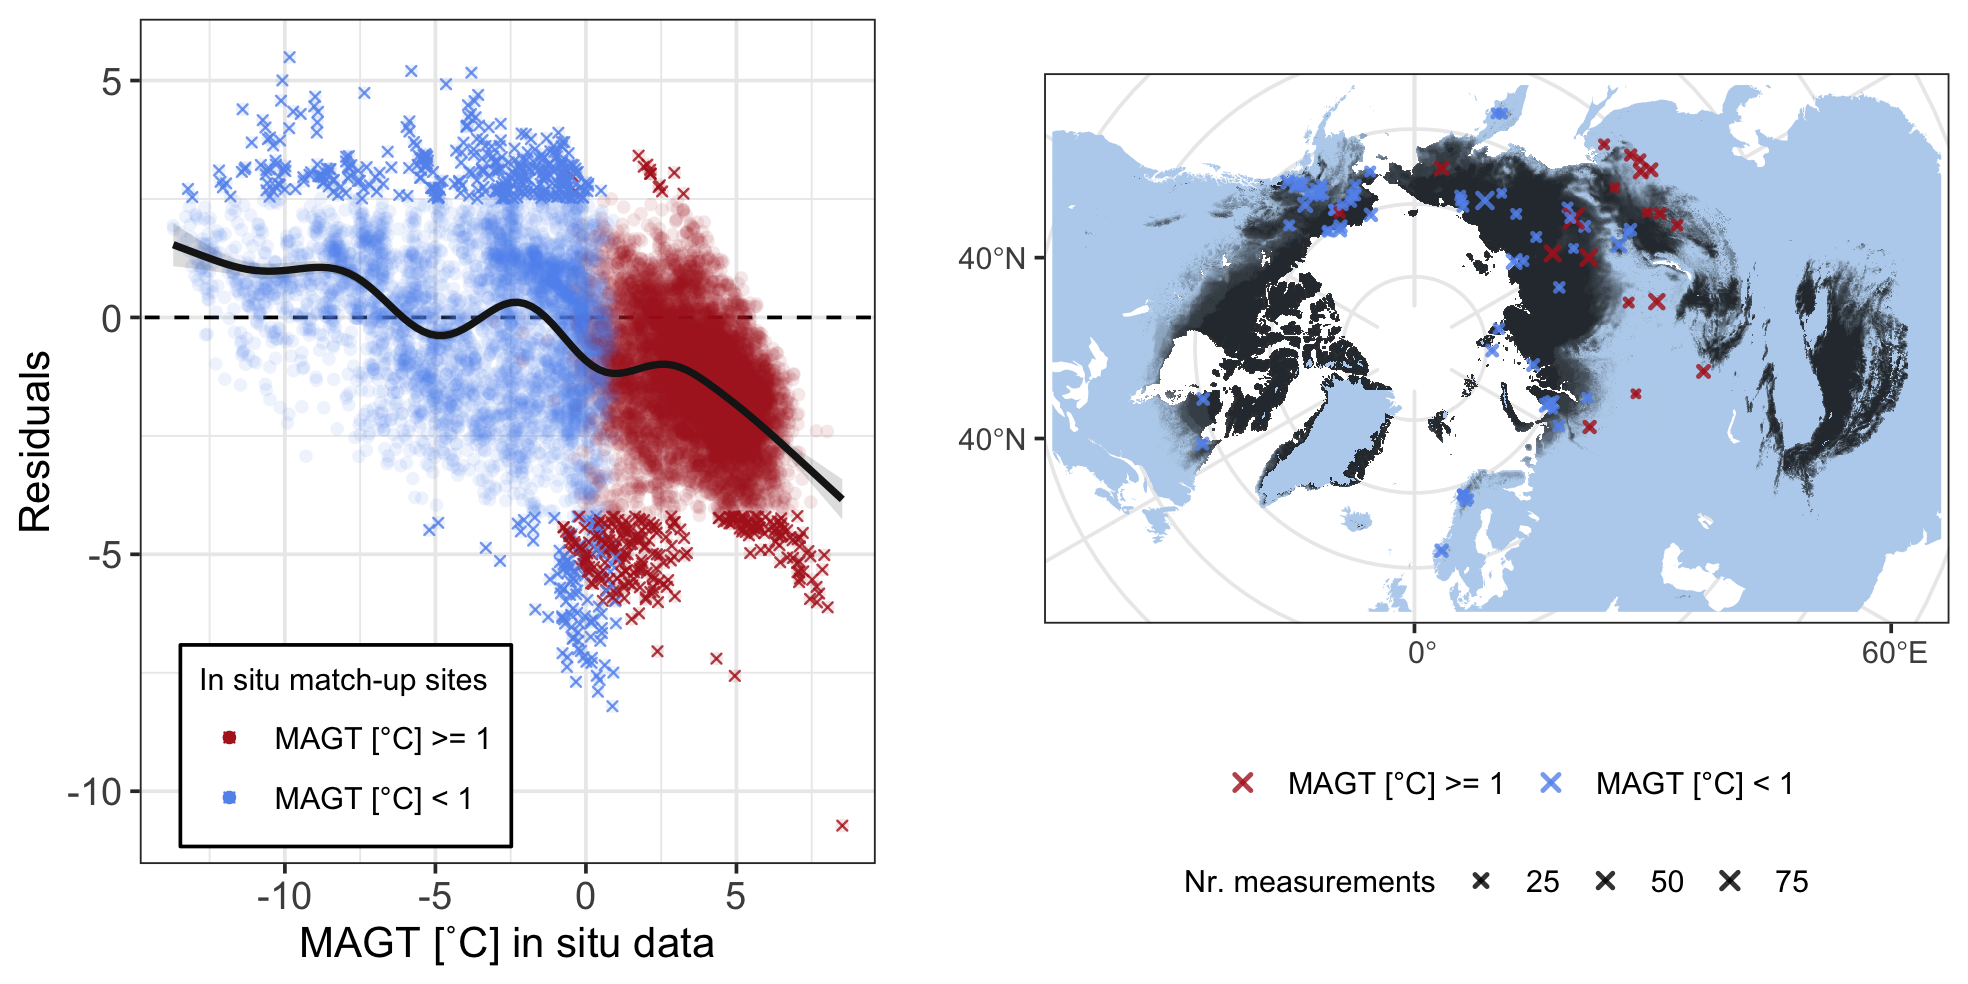
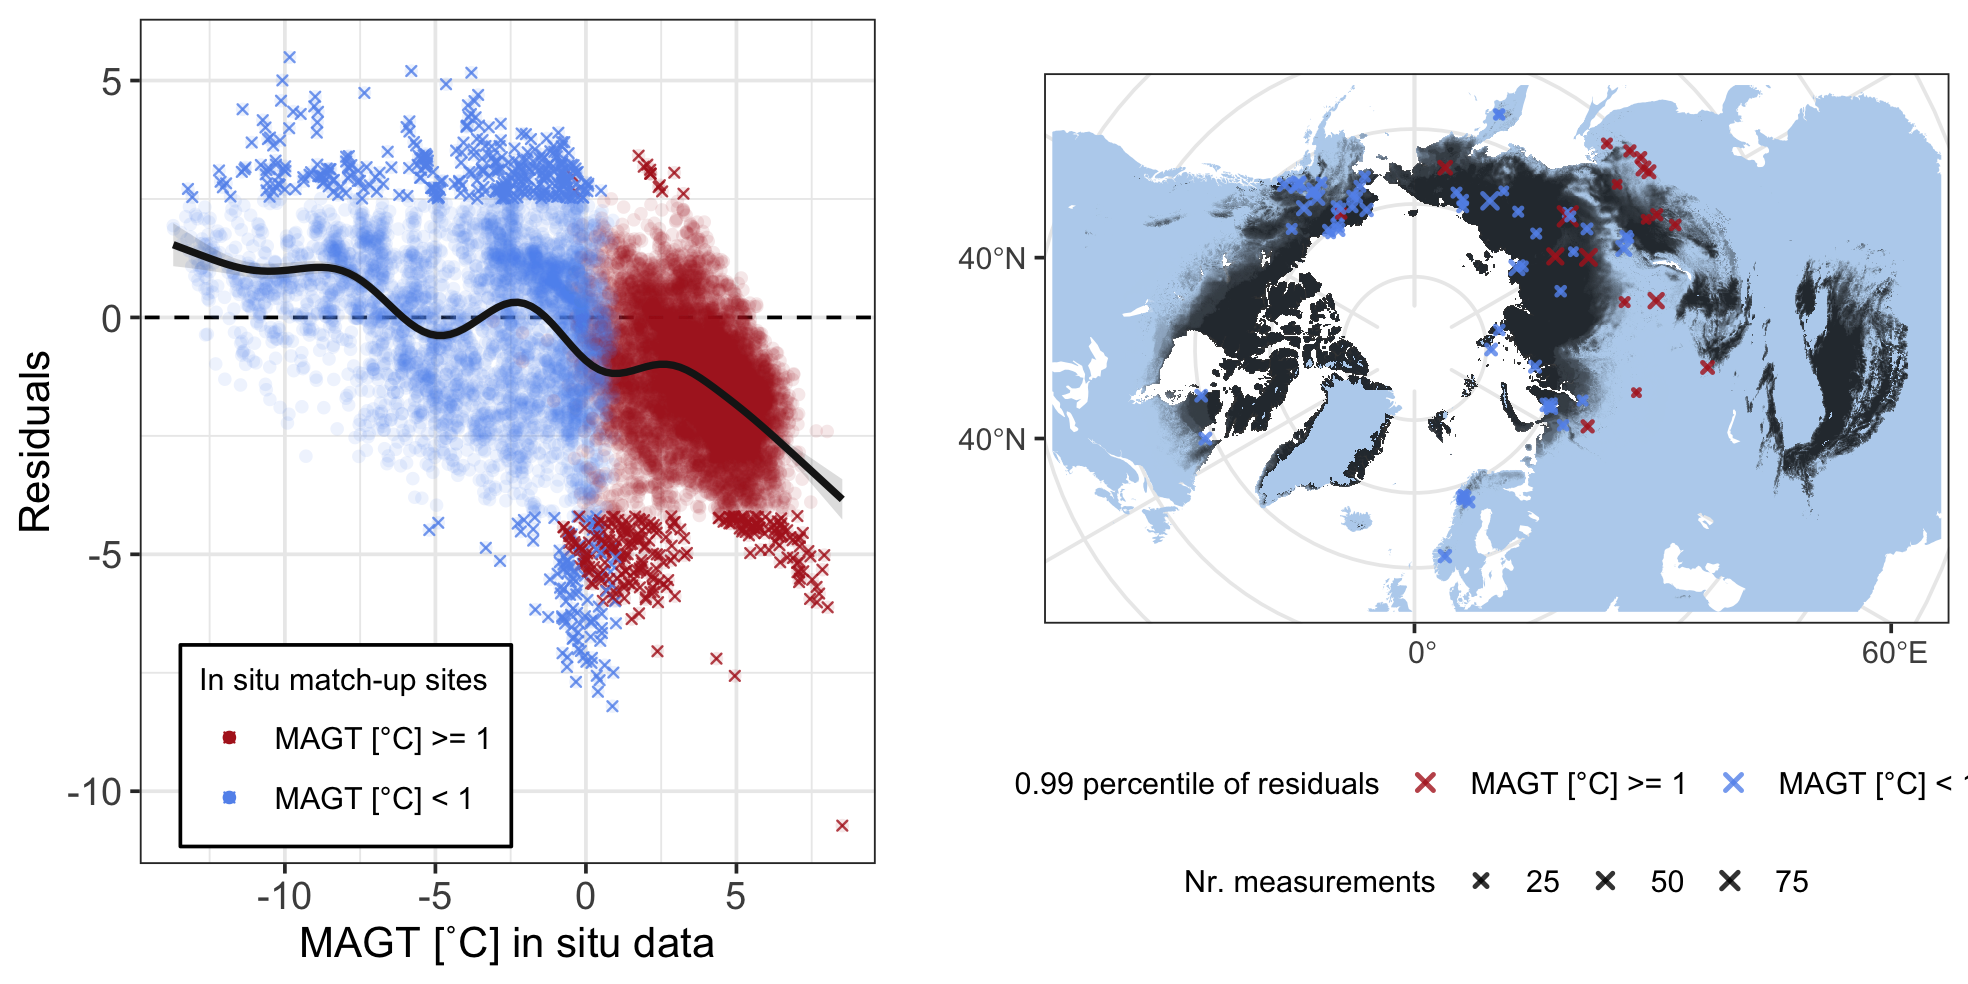
MAGTres

diff --git a/docs/Results.html b/docs/Results.html
@@ -410,7 +410,7 @@ Figure 3.2 code
                  aes(x = X, y = Y, col = coldSite, size = n), alpha = 0.8, shape = 4, stroke = 1, width = 60000, height = 60000) +
       scale_color_manual(values = c(&quot;firebrick&quot;, &quot;cornflowerblue&quot;), labels = c(&#39;MAGT [°C] &gt;= 1&#39;, &#39;MAGT [°C] &lt; 1&#39;)) +
       scale_size(range = c(0.15, 1.7)) +
-      labs(x = &quot;&quot;, y = &quot;&quot;, col = &quot;&quot;, size = &quot;Nr. measurements&quot;) +
+      labs(x = &quot;&quot;, y = &quot;&quot;, col = &quot;0.99 percentile of residuals&quot;, size = &quot;Nr. measurements&quot;) +
       theme(legend.position=&quot;bottom&quot;, legend.box=&quot;vertical&quot;, legend.margin=margin(),
             legend.background = element_rect(fill = &quot;white&quot;),
             legend.text = element_text(size=rel(0.8)),
@@ -437,9 +437,184 @@ Figure 3.2 code
 <summary>
 Figure 3.3 code
 </summary>
+<pre class="r"><code>  #### over Depths
+  model1   &lt;- gam(res ~ s(Depth), data = resTab)
+  model2   &lt;- gam(res ~ s(Depth), data = resTab %&gt;% filter(!coldSite))
+  model3   &lt;- gam(res ~ s(Depth), data = resTab %&gt;% filter(coldSite))
+  
+  ### confidence interval
+  newdat     &lt;- data.frame(Depth = seq(min(resTab$Depth), max(resTab$Depth), length = 100))
+  dat        &lt;- lapply(list(model1, model2, model3), predInterval, newdat = newdat)
+  
+  qtilesWarm     &lt;- resTab %&gt;% filter(!coldSite) %&gt;% group_by(Depth) %&gt;% summarise(upper = quantile(res, probs = 0.05), lower = quantile(res, probs = 0.95))
+  qtilesCold     &lt;- resTab %&gt;% filter(coldSite) %&gt;% group_by(Depth) %&gt;% summarise(upper = quantile(res, probs = 0.05), lower = quantile(res, probs = 0.95))
+  
+  pl1 &lt;- ggplot(NULL, aes(x, y)) +
+    theme_bw() +
+    geom_abline(slope = 0, intercept = 0, linetype = &quot;dashed&quot;) +
+    geom_point(data = resTab, mapping = aes(Depth, res), alpha = 0.1, shape = 16, size = .7, show.legend = FALSE) +
+    geom_ribbon(data = dat[[1]], mapping = aes(x = Depth, y = fit, ymin = plwr, ymax = pupr), alpha = 0.05) +
+    geom_ribbon(data = dat[[1]], mapping = aes(x = Depth, y = fit, ymin = lwr, ymax = upr), alpha = 0.1, fill = &quot;grey10&quot;) +
+    geom_line(data = dat[[1]], mapping = aes(x = Depth, y = fit), col = &quot;grey10&quot;, size = 1) +
+    labs(y = &quot;&quot;, x = &quot;&quot;) +
+    theme(text = element_text(size=rel(3.5)))
+  
+  
+  pl2 &lt;- ggplot(NULL, aes(x, y)) +
+    theme_bw() +
+    geom_label(aes(1300, -10, hjust = 0, vjust = 0, label = &quot;MAGT [°C] &gt;= 1&quot;), size = 3) +
+    geom_abline(slope = 0, intercept = 0, linetype = &quot;dashed&quot;) +
+    geom_point(data = resTab, mapping = aes(Depth, res, col = coldSite), alpha = 0.05, shape = 16, size = 0.7, show.legend = FALSE) +
+            scale_color_manual(values = c(&quot;firebrick&quot;, &quot;cornflowerblue&quot;), labels = c(&#39;MAGT [°C] &gt;= 1&#39;, &#39;MAGT [°C] &lt; 1&#39;)) +
+  
+    geom_ribbon(dat[[2]], mapping = aes(x = Depth, y = fit, ymin = upr, ymax = lwr), alpha = 0.15) +
+    geom_line(dat[[2]],   mapping = aes(x = Depth, y = fit), col = &quot;firebrick&quot;, size = 1) +
+    geom_smooth(qtilesWarm, mapping = aes(x = Depth, y = lower), col = &quot;firebrick&quot;, size = 0.5, se = FALSE, span = 0.45) +
+    geom_smooth(qtilesWarm, mapping = aes(x = Depth, y = upper), col = &quot;firebrick&quot;, size = 0.5, se = FALSE, span = 0.45) +
+    labs(y = &quot;&quot;, x = &quot;&quot;) +
+    
+    theme(text = element_text(size=rel(3.5)))
+  
+  
+  pl3 &lt;- ggplot(NULL, aes(x, y)) +
+    theme_bw() +
+    geom_label(aes(1300, -10, hjust = 0, vjust = 0, label = &quot;MAGT [°C] &lt; 1&quot;), size = 3) +
+    geom_abline(slope = 0, intercept = 0, linetype = &quot;dashed&quot;) +
+    geom_point(data = resTab, mapping = aes(Depth, res, col = coldSite), alpha = 0.05, shape = 16, size = 0.7, show.legend = FALSE) +
+            scale_color_manual(values = c(&quot;firebrick&quot;, &quot;cornflowerblue&quot;), labels = c(&#39;MAGT [°C] &gt;= 1&#39;, &#39;MAGT [°C] &lt; 1&#39;)) +
+  
+    geom_ribbon(dat[[3]], mapping = aes(x = Depth, y = fit, ymin = upr, ymax = lwr), alpha = 0.15) +
+    geom_line(dat[[3]],   mapping = aes(x = Depth, y = fit), col = &quot;cornflowerblue&quot;, size = 1) +
+    geom_smooth(qtilesCold, mapping = aes(x = Depth, y = lower), col = &quot;cornflowerblue&quot;, size = 0.5, se = FALSE, span = 0.45) +
+    geom_smooth(qtilesCold, mapping = aes(x = Depth, y = upper), col = &quot;cornflowerblue&quot;, size = 0.5, se = FALSE, span = 0.45) +
+    labs(y = &quot;&quot;, x = &quot;&quot;) +
+    theme(text = element_text(size=rel(3.5)))
+  
+  
+  png(&quot;figures/Figure_3.3.png&quot;, width = 20, height = 10, units = &quot;cm&quot;, res = 250)
+  gridExtra::grid.arrange(pl1, pl2, pl3, layout_matrix = rbind(c(1,2),c(1,3)), heights=c(1, 1), bottom = &quot;Depths [cm] of MAGT measurement&quot;,
+                          left = &quot;Residuals&quot;)</code></pre>
+<pre><code>  ## `geom_smooth()` using method = &#39;loess&#39; and formula &#39;y ~ x&#39;
+  ## `geom_smooth()` using method = &#39;loess&#39; and formula &#39;y ~ x&#39;
+  ## `geom_smooth()` using method = &#39;loess&#39; and formula &#39;y ~ x&#39;
+  ## `geom_smooth()` using method = &#39;loess&#39; and formula &#39;y ~ x&#39;</code></pre>
+<pre class="r"><code>  dev.off()</code></pre>
+<pre><code>  ## quartz_off_screen 
+  ##                 2</code></pre>
 </details>
 <p><br/></p>
 <p><img src="figures/Figure_3.3.png" /></p>
+</div>
+<div id="residuals-over-space" class="section level3">
+<h3>Residuals over space</h3>
+<details>
+<summary>
+Figure 3.4 code
+</summary>
+<pre class="r"><code>  #### over Latitudes
+  model   &lt;- gam(res ~ s(Latitude), data = resTab)
+  
+  
+  ### confidence interval
+  newdat     &lt;- data.frame(Latitude = seq(min(resTab$Latitude), max(resTab$Latitude), length = 100))
+  dat        &lt;- lapply(list(model), predInterval, newdat = newdat)
+  
+  qtilesWarm     &lt;- resTab %&gt;% filter(!coldSite) %&gt;% mutate(Latgr = as.character(cut(Latitude, seq(45, 90, length = 60)))) %&gt;%
+    mutate(grLat = as.numeric(substring(Latgr, 2, 5)) + (as.numeric(substring(Latgr, 7, 10)) - as.numeric(substring(Latgr, 2, 5)))) %&gt;%
+    group_by(grLat) %&gt;% summarise(upper = quantile(res, probs = 0.05), lower = quantile(res, probs = 0.95))</code></pre>
+<pre><code>  ## Warning in mask$eval_all_mutate(quo): NAs introduced by coercion
+  
+  ## Warning in mask$eval_all_mutate(quo): NAs introduced by coercion
+  
+  ## Warning in mask$eval_all_mutate(quo): NAs introduced by coercion</code></pre>
+<pre class="r"><code>  qtilesCold     &lt;- resTab %&gt;% filter(coldSite) %&gt;% mutate(Latgr = as.character(cut(Latitude, seq(45, 90, length = 60)))) %&gt;%
+    mutate(grLat = as.numeric(substring(Latgr, 2, 5)) + (as.numeric(substring(Latgr, 7, 10)) - as.numeric(substring(Latgr, 2, 5)))) %&gt;%
+    group_by(grLat) %&gt;% summarise(upper = quantile(res, probs = 0.05), lower = quantile(res, probs = 0.95))</code></pre>
+<pre><code>  ## Warning in mask$eval_all_mutate(quo): NAs introduced by coercion
+  
+  ## Warning in mask$eval_all_mutate(quo): NAs introduced by coercion
+  
+  ## Warning in mask$eval_all_mutate(quo): NAs introduced by coercion</code></pre>
+<pre class="r"><code>  pl1 &lt;- ggplot(NULL, aes(x, y)) +
+    theme_bw() +
+    geom_abline(slope = 0, intercept = 0, linetype = &quot;dashed&quot;) +
+    geom_point(data = resTab, mapping = aes(Latitude, res, col = coldSite), alpha = 0.05, shape = 16, size = 0.7, show.legend = FALSE) +
+               scale_color_manual(values = c(&quot;firebrick&quot;, &quot;cornflowerblue&quot;), labels = c(&#39;MAGT [°C] &gt;= 1&#39;, &#39;MAGT [°C] &lt; 1&#39;)) +
+    
+    geom_ribbon(data = dat[[1]], mapping = aes(x = Latitude, y = fit, ymin = lwr, ymax = upr), alpha = 0.15, fill = &quot;grey10&quot;) +
+      geom_line(data = dat[[1]], mapping = aes(x = Latitude, y = fit), col = &quot;grey10&quot;, size = 1.5) +
+    
+    geom_smooth(qtilesWarm, mapping = aes(x = grLat, y = lower), col = &quot;firebrick&quot;, size = 0.5, se = FALSE, span = 0.45) +
+    geom_smooth(qtilesWarm, mapping = aes(x = grLat, y = upper), col = &quot;firebrick&quot;, size = 0.5, se = FALSE, span = 0.45) +
+    
+    geom_smooth(qtilesCold, mapping = aes(x = grLat, y = lower), col = &quot;cornflowerblue&quot;, size = 0.5, se = FALSE, span = 0.45) +
+    geom_smooth(qtilesCold, mapping = aes(x = grLat, y = upper), col = &quot;cornflowerblue&quot;, size = 0.5, se = FALSE, span = 0.45) +
+    
+    ylim(-7,5) +
+    coord_flip() +
+  
+    
+    labs(y = &quot;Residuals&quot;, x = &quot;Latitude of MAGT [˚C] in situ data&quot;) +
+    theme(text = element_text(size=rel(3.5)))
+  
+  
+  #### over Longitudes
+  model   &lt;- gam(res ~ s(Longitude), data = resTab)
+  
+  
+  ### confidence interval
+  newdat     &lt;- data.frame(Longitude = seq(-180, 180, length = 100))
+  dat        &lt;- lapply(list(model), predInterval, newdat = newdat)
+  
+  LonGroup &lt;- data.frame(Lon = seq(-180, 180, length = 180), LonGr = 1:180)
+  
+  qtilesWarm     &lt;- resTab %&gt;% filter(!coldSite) %&gt;% mutate(LonGr = cut(Longitude, seq(-180, 180, length = 180), labels = FALSE)) %&gt;%
+    left_join(LonGroup, by = &quot;LonGr&quot;) %&gt;%
+    group_by(Lon) %&gt;% summarise(upper = quantile(res, probs = 0.05), lower = quantile(res, probs = 0.95))
+  
+  qtilesCold     &lt;- resTab %&gt;% filter(coldSite) %&gt;% mutate(LonGr = cut(Longitude, seq(-180, 180, length = 180), labels = FALSE)) %&gt;%
+    left_join(LonGroup, by = &quot;LonGr&quot;) %&gt;%
+    group_by(Lon) %&gt;% summarise(upper = quantile(res, probs = 0.05), lower = quantile(res, probs = 0.95))
+    
+  pl2 &lt;- ggplot(NULL, aes(x, y)) +
+    theme_bw() +
+    geom_abline(slope = 0, intercept = 0, linetype = &quot;dashed&quot;) +
+    geom_point(data = resTab, mapping = aes(Longitude, res, col = coldSite), alpha = 0.05, shape = 16, size = 0.7, show.legend = FALSE) +
+               scale_color_manual(values = c(&quot;firebrick&quot;, &quot;cornflowerblue&quot;), labels = c(&#39;MAGT [°C] &gt;= 1&#39;, &#39;MAGT [°C] &lt; 1&#39;)) +
+    
+    geom_ribbon(data = dat[[1]], mapping = aes(x = Longitude, y = fit, ymin = lwr, ymax = upr), alpha = 0.15, fill = &quot;grey10&quot;) +
+      geom_line(data = dat[[1]], mapping = aes(x = Longitude, y = fit), col = &quot;grey10&quot;, size = 1.5) +
+    
+    geom_smooth(qtilesWarm %&gt;% filter(Lon&gt;0), mapping = aes(x = Lon, y = lower), col = &quot;firebrick&quot;, size = 0.5, se = FALSE, span = 0.45) +
+    geom_smooth(qtilesWarm %&gt;% filter(Lon&gt;0), mapping = aes(x = Lon, y = upper), col = &quot;firebrick&quot;, size = 0.5, se = FALSE, span = 0.45) +
+    
+    geom_smooth(qtilesCold, mapping = aes(x = Lon, y = lower), col = &quot;cornflowerblue&quot;, size = 0.5, se = FALSE, span = 0.45) +
+    geom_smooth(qtilesCold, mapping = aes(x = Lon, y = upper), col = &quot;cornflowerblue&quot;, size = 0.5, se = FALSE, span = 0.45) +
+  
+    labs(y = &quot;Residuals&quot;, x = &quot;Longitude of MAGT [˚C] in situ data&quot;) +
+    theme(text = element_text(size=rel(3)))
+  
+  png(&quot;figures/Figure_3.4.png&quot;, width = 20, height = 10, units = &quot;cm&quot;, res = 250)
+  gridExtra::grid.arrange(pl1, pl2, layout_matrix = matrix(c(1,2), ncol = 2, byrow = TRUE))</code></pre>
+<pre><code>  ## `geom_smooth()` using method = &#39;loess&#39; and formula &#39;y ~ x&#39;</code></pre>
+<pre><code>  ## Warning: Removed 2 rows containing non-finite values (stat_smooth).</code></pre>
+<pre><code>  ## `geom_smooth()` using method = &#39;loess&#39; and formula &#39;y ~ x&#39;</code></pre>
+<pre><code>  ## Warning: Removed 2 rows containing non-finite values (stat_smooth).</code></pre>
+<pre><code>  ## `geom_smooth()` using method = &#39;loess&#39; and formula &#39;y ~ x&#39;</code></pre>
+<pre><code>  ## Warning: Removed 1 rows containing non-finite values (stat_smooth).</code></pre>
+<pre><code>  ## `geom_smooth()` using method = &#39;loess&#39; and formula &#39;y ~ x&#39;</code></pre>
+<pre><code>  ## Warning: Removed 2 rows containing non-finite values (stat_smooth).</code></pre>
+<pre><code>  ## Warning: Removed 24 rows containing missing values (geom_point).</code></pre>
+<pre><code>  ## `geom_smooth()` using method = &#39;loess&#39; and formula &#39;y ~ x&#39;
+  ## `geom_smooth()` using method = &#39;loess&#39; and formula &#39;y ~ x&#39;
+  ## `geom_smooth()` using method = &#39;loess&#39; and formula &#39;y ~ x&#39;
+  ## `geom_smooth()` using method = &#39;loess&#39; and formula &#39;y ~ x&#39;</code></pre>
+<pre class="r"><code>  dev.off()</code></pre>
+<pre><code>  ## quartz_off_screen 
+  ##                 2</code></pre>
+</details>
+<p><br/></p>
+<p><img src="figures/Figure_3.4.png" /></p>
 </div>
 </div>
 
